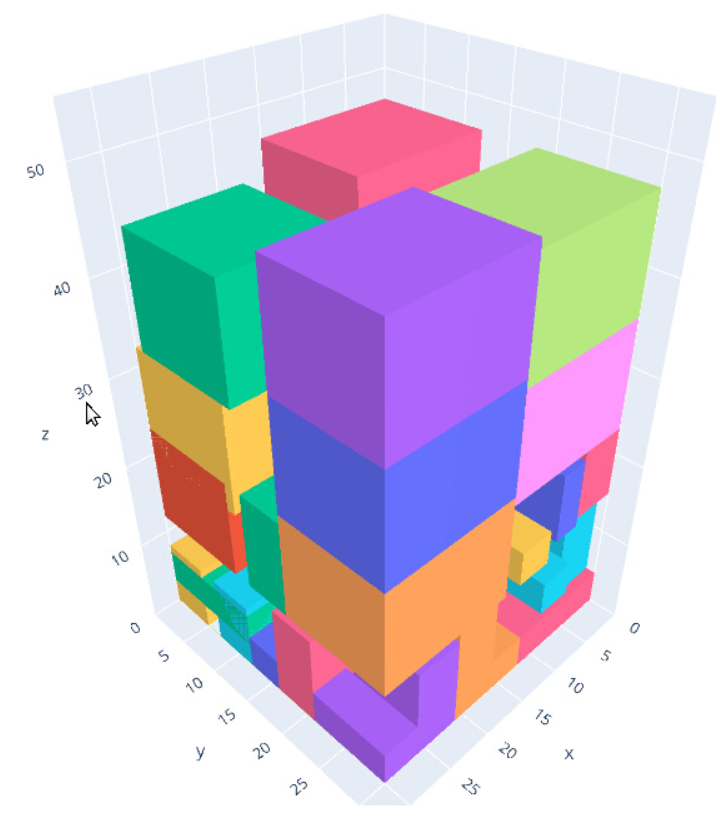
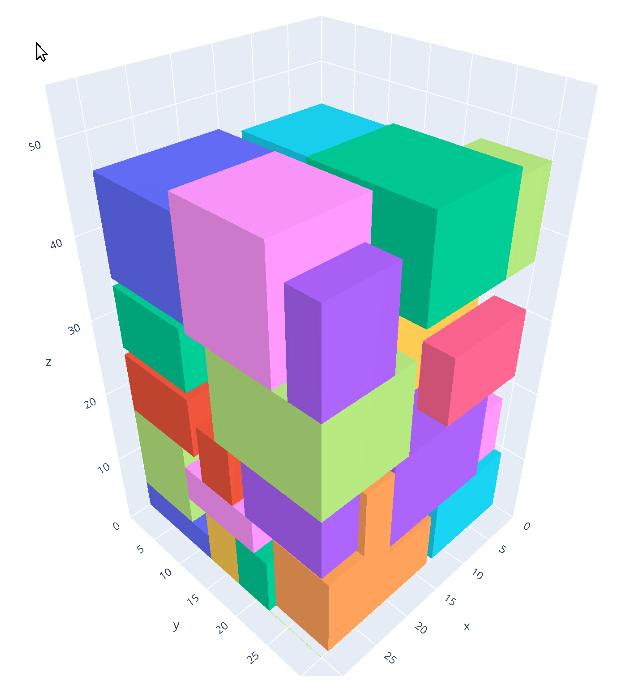
fixed bug in input and output

diff --git a/utils.py b/utils.py
@@ -132,7 +132,7 @@ def plot_cuboids(sample: dimod.SampleSet, vars: "Variables", cases: "Cases",
                  vars.z[i].energy(sample)))
             sizes.append((sx[i].energy(sample),
                           sy[i].energy(sample),
-                          cases.height[i]))
+                          sz[i].energy(sample)))
     fig = _plot_cuboid(positions, sizes, bins.length * num_bins,
                        bins.width, bins.height, **kwargs)
     for i in range(num_bins):
@@ -168,10 +168,10 @@ def read_instance(instance_path: str) -> dict:
                 continue
             else:
                 case_info = list(map(int, line.split()))
-                data["quantity"].append(case_info[1])
                 data["case_ids"].append(case_info[0])
-                data["case_width"].append(case_info[2])
-                data["case_length"].append(case_info[3])
+                data["quantity"].append(case_info[1])
+                data["case_length"].append(case_info[2])
+                data["case_width"].append(case_info[3])
                 data["case_height"].append(case_info[4])
 
         return data

diff --git a/README.md b/README.md
@@ -1,4 +1,4 @@
-# 3D Bin packing using CQM
+# 3D Bin Packing using CQM
 
 Three-dimensional bin packing [Martello et al. 2000](#Materllo) is an 
 optimization problem where the goal is to use minimum number of bins to pack items with
@@ -64,18 +64,19 @@ These additional parameters can be passed to `packing3d.py`:
 The program produces a solution like this:
 
 ```
-#Number of bins used: 1
-#Number of cases packed: 47
-#objective value: 154.4145
+# Number of bins used: 1
+# Number of cases packed: 47
+# Objective value: 117.266
 
   case-id    bin-location    orientation    x    y    z    x'    y'    z'
 ---------  --------------  -------------  ---  ---  ---  ----  ----  ----
-        0               1              4    9    0    0     5     8     3
-        1               1              3   13   22    0     5     3     8
-        2               1              4   16    8    0     5     8     3
-        3               1              4    0    9   11     5     8     3
-        4               1              1   27    0    0     3     5     8
-        5               1              4   16    0    0     5     8     3
+        0               1              4    0    0    0     3     8     5
+        1               1              1    6    5    0     5     3     8
+        2               1              1    0   23    0     5     3     8
+        3               1              5    3    0    0     8     5     3
+        4               1              3    0   12    0     3     5     8
+        5               1              2   11    0    0     5     8     3
+        ...
 ```
 
 The number under orientation shows the rotation of the case inside bin as follows.
